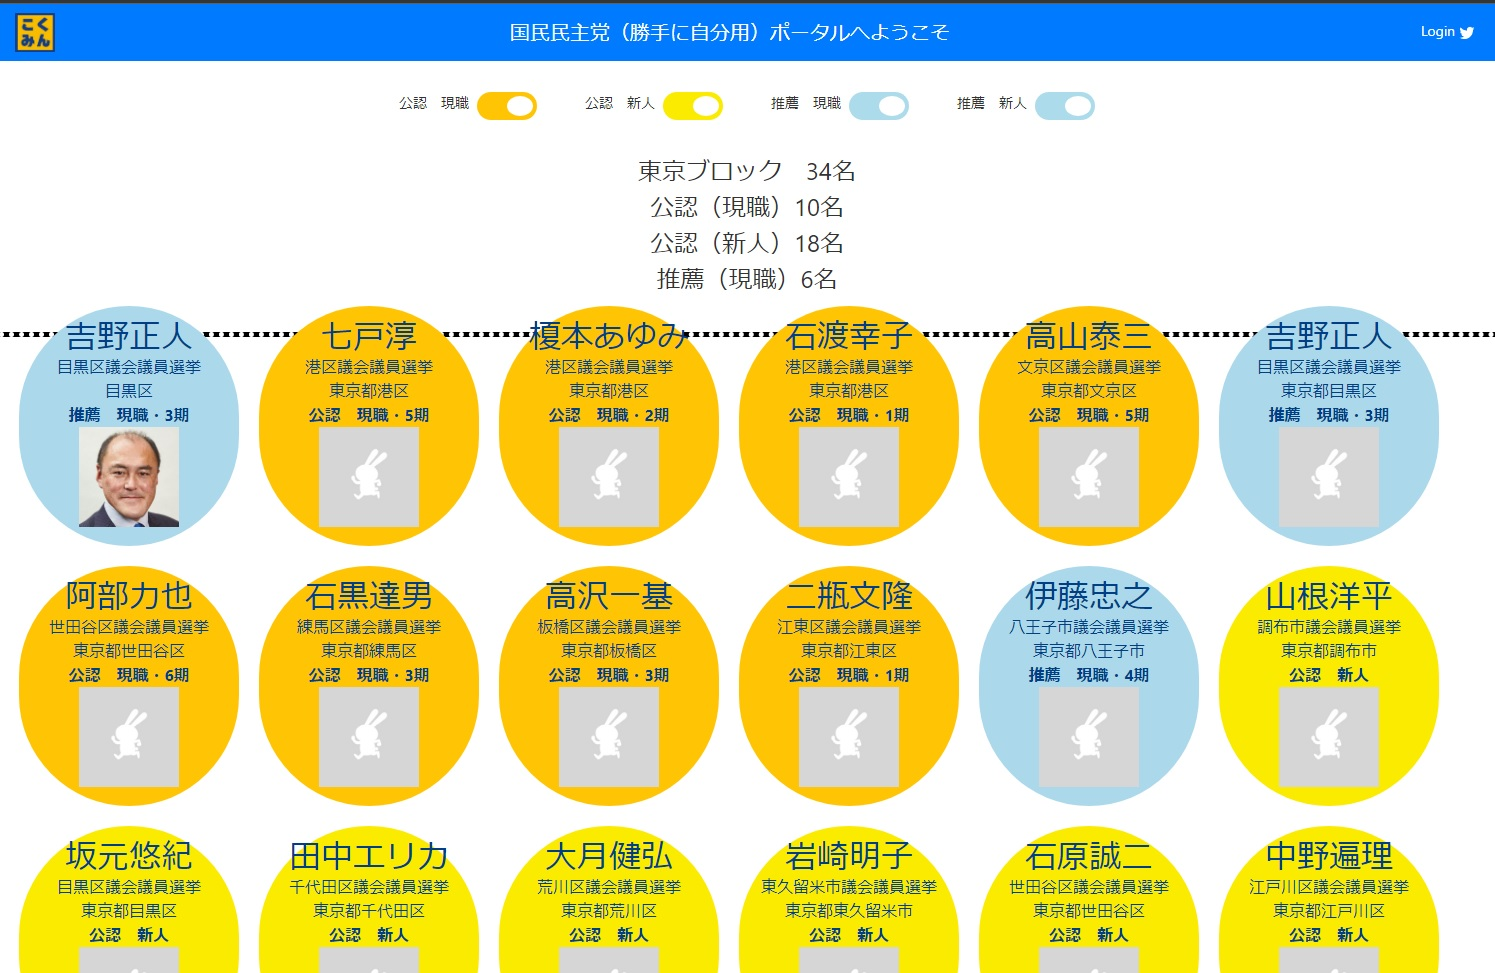
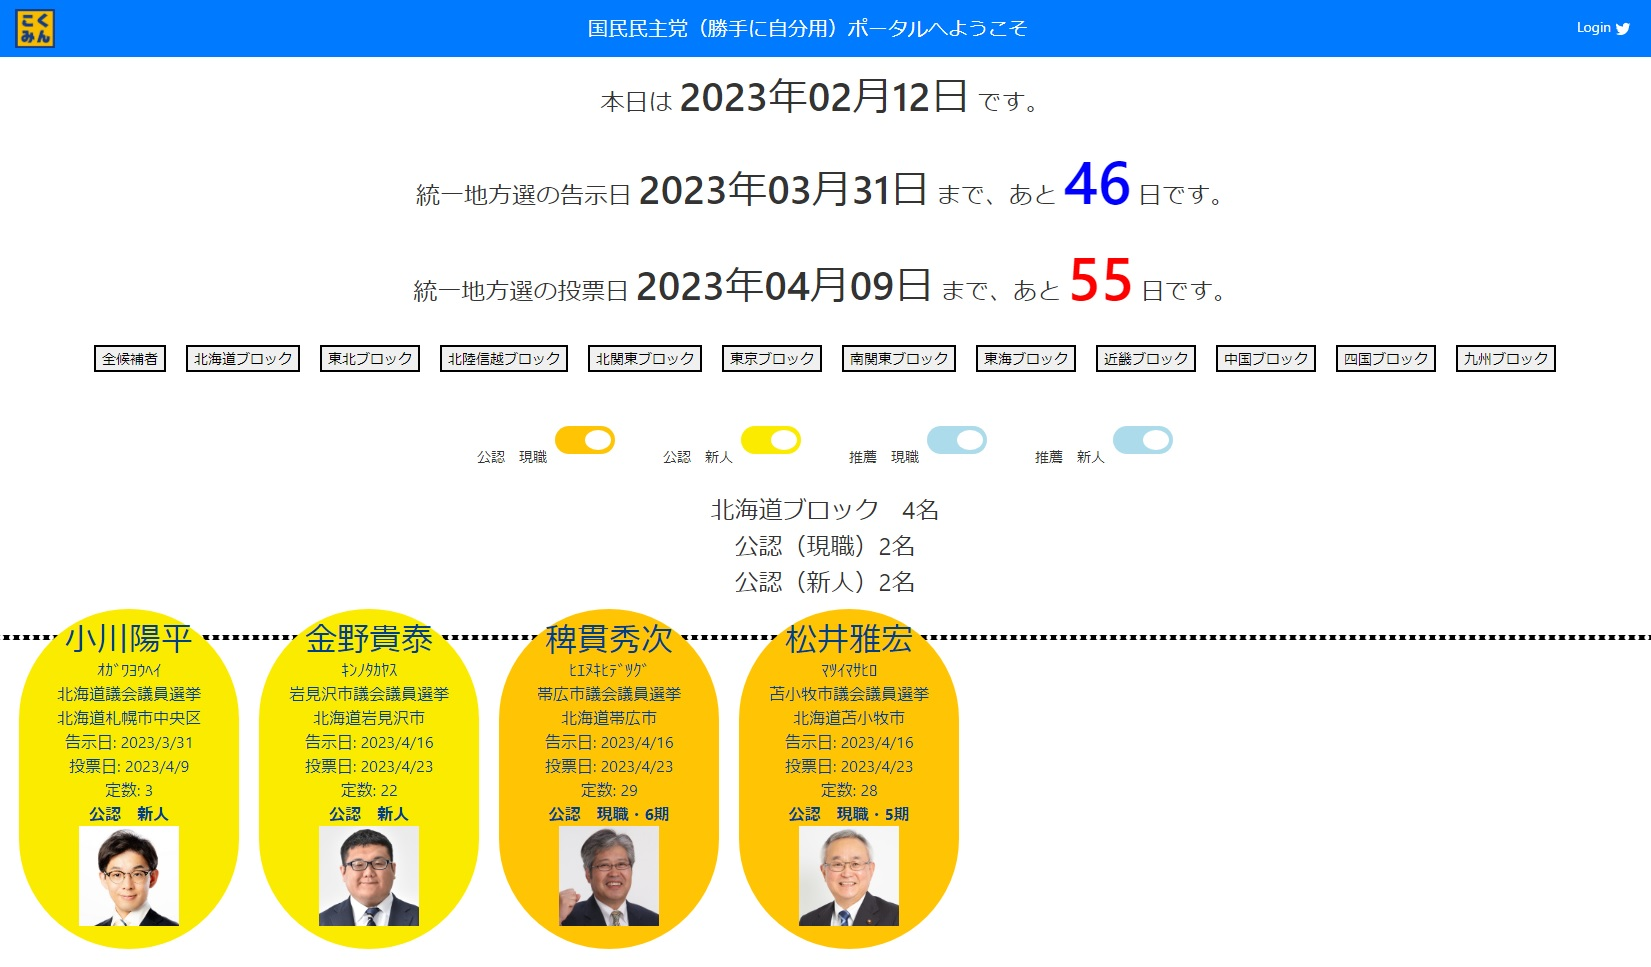
告示日、投票日、定数を追加

diff --git a/src/app/local-candidate/local-candidate.component.scss b/src/app/local-candidate/local-candidate.component.scss
@@ -58,7 +58,7 @@ button {
   text-align: center;
   color: #003F88;
   height: 200px;
-  width: 200px;
+  width: 340px;
   background-color: #ffc505;
   border-radius: 130px;
   margin-left: 20px;
@@ -77,7 +77,7 @@ button {
   padding: 10px;
   text-align: center;
   color: #003F88;
-  height: 200px;
+  height: 340px;
   width: 200px;
   background-color: #FAEB00;
   border-radius: 130px;
@@ -87,7 +87,7 @@ button {
   padding: 10px;
   text-align: center;
   color: #003F88;
-  height: 200px;
+  height: 340px;
   width: 200px;
   background-color: #acd8ec;
   border-radius: 130px;
@@ -205,17 +205,17 @@ input:checked + .slider:before {
   .module {
     font-size: 16px;
     width: 200px;
-    height: 240px;
+    height: 340px;
   }
   .new-module {
     font-size: 16px;
     width: 200px;
-    height: 240px;
+    height: 340px;
   }
   .recommendation-module {
     font-size: 16px;
     width: 200px;
-    height: 240px;
+    height: 340px;;
   }
   .no-entory-module {
     font-size: 16px;
@@ -230,11 +230,11 @@ input:checked + .slider:before {
   .module {
     font-size: 12px;
     width: 160px;
-    height: 160px; }
+    height: 340px; }
   .new-module {
     font-size: 12px;
     width: 160px;
-    height: 160px;
+    height: 340px;
   }
   .no-entory-module {
     font-size: 12px;
@@ -248,11 +248,11 @@ input:checked + .slider:before {
   .module {
     font-size: 8px;
     width: 116px;
-    height: 116px; }
+    height: 340px; }
   .new-module {
     font-size: 8px;
     width: 116px;
-    height: 116px;
+    height: 340px;
   }
   .no-entory-module {
     font-size: 8px;
@@ -266,11 +266,11 @@ input:checked + .slider:before {
   .module {
     font-size: 12px;
     width: 160px;
-    height: 160px; }
+    height: 340px; }
   .new-module {
     font-size: 12px;
     width: 160px;
-    height: 160px;
+    height: 340px;
   }
   .no-entory-module {
     font-size: 12px;
@@ -284,17 +284,17 @@ input:checked + .slider:before {
   .module {
     font-size: 16px;
     width: 220px;
-    height: 240px;
+    height: 340px;
   }
   .new-module {
     font-size: 16px;
     width: 220px;
-    height: 240px;
+    height: 340px;
   }
   .recommendation-module {
     font-size: 16px;
     width: 220px;
-    height: 240px;
+    height: 340px;;
   }
   .no-entory-module {
     font-size: 16px;

diff --git a/src/app/local-candidate/local-candidate.component.html b/src/app/local-candidate/local-candidate.component.html
@@ -77,10 +77,11 @@
       <div *ngIf="hero.license == '推薦'; else entoryBlock" class="recommendation-module hero">
         <h2>{{hero.name}}</h2>
         <div>{{hero.kana}}</div>
-        {{hero.election}}
-        <br/>
-        {{hero.candidatedistrict}}
-        <br/>
+        <div>{{hero.election}}</div>
+        <div>{{hero.candidatedistrict}}</div>
+        <div>告示日: {{hero.kokujibi}}</div>
+        <div>投票日: {{hero.tohyobi}}</div>
+        <div>定数: {{hero.teisu}}</div>
         <div>
           <b>{{hero.license}}</b>
           <b *ngIf="hero.newcomer == '新人'; else notNew">　{{hero.newcomer}}</b>
@@ -99,9 +100,11 @@
         <div *ngIf="hero.newcomer == '新人'; else notNew" class="new-module hero">
           <h2>{{hero.name}}</h2>
           <div>{{hero.kana}}</div>
-          {{hero.election}}
-          <br/>
-          {{hero.candidatedistrict}}
+          <div>{{hero.election}}</div>
+          <div>{{hero.candidatedistrict}}</div>
+          <div>告示日: {{hero.kokujibi}}</div>
+          <div>投票日: {{hero.tohyobi}}</div>
+          <div>定数: {{hero.teisu}}</div>
           <div>
             <b>{{hero.license}}</b>
             <b>　{{hero.newcomer}}</b>
@@ -117,9 +120,11 @@
           <div class="module hero">
             <h2>{{hero.name}}</h2>
             <div>{{hero.kana}}</div>
-            {{hero.election}}
-            <br/>
-            {{hero.candidatedistrict}}
+            <div>{{hero.election}}</div>
+            <div>{{hero.candidatedistrict}}</div>
+            <div>告示日: {{hero.kokujibi}}</div>
+            <div>投票日: {{hero.tohyobi}}</div>
+            <div>定数: {{hero.teisu}}</div>
             <div>
               <b>{{hero.license}}</b>
               <b>　{{hero.newcomer}}・{{hero.continuecount}}期</b>

diff --git a/src/app/heroes/hero-detail/hero-detail.component.html b/src/app/heroes/hero-detail/hero-detail.component.html
@@ -26,6 +26,7 @@
     <div *ngIf="hero.candidatePrefecture"class="mgr-bottom-4"><span>立候補選挙区 　　: </span>{{hero.candidatePrefecture}}{{hero.candidatedistrict}}</div>
     <div *ngIf="hero.kokujibi"class="mgr-bottom-4"><span>告示日 　　: </span>{{hero.kokujibi}}</div>
     <div *ngIf="hero.tohyobi"class="mgr-bottom-4"><span>投票日 　　: </span>{{hero.tohyobi}}</div>
+    <div *ngIf="hero.teisu"class="mgr-bottom-4"><span>定数 　　: </span>{{hero.teisu}}</div>
     <div *ngIf="hero.license"class="mgr-bottom-4"><b>{{hero.license}}</b></div>
     <div *ngIf="hero.newcomer"class="mgr-bottom-4"><b>{{hero.newcomer}}</b></div>
     <div *ngIf="hero.continuecount" class="mgr-bottom-4"><span>期数 　　: </span>{{hero.continuecount}}期</div>

diff --git a/src/app/heroes/hero.ts b/src/app/heroes/hero.ts
@@ -9,6 +9,7 @@ export interface Hero {
   newcomer: string;
   kokujibi: Date;
   tohyobi: Date;
+  teisu: number
   belongs: string;
   almaMater: string;
   almaMater2: string;
